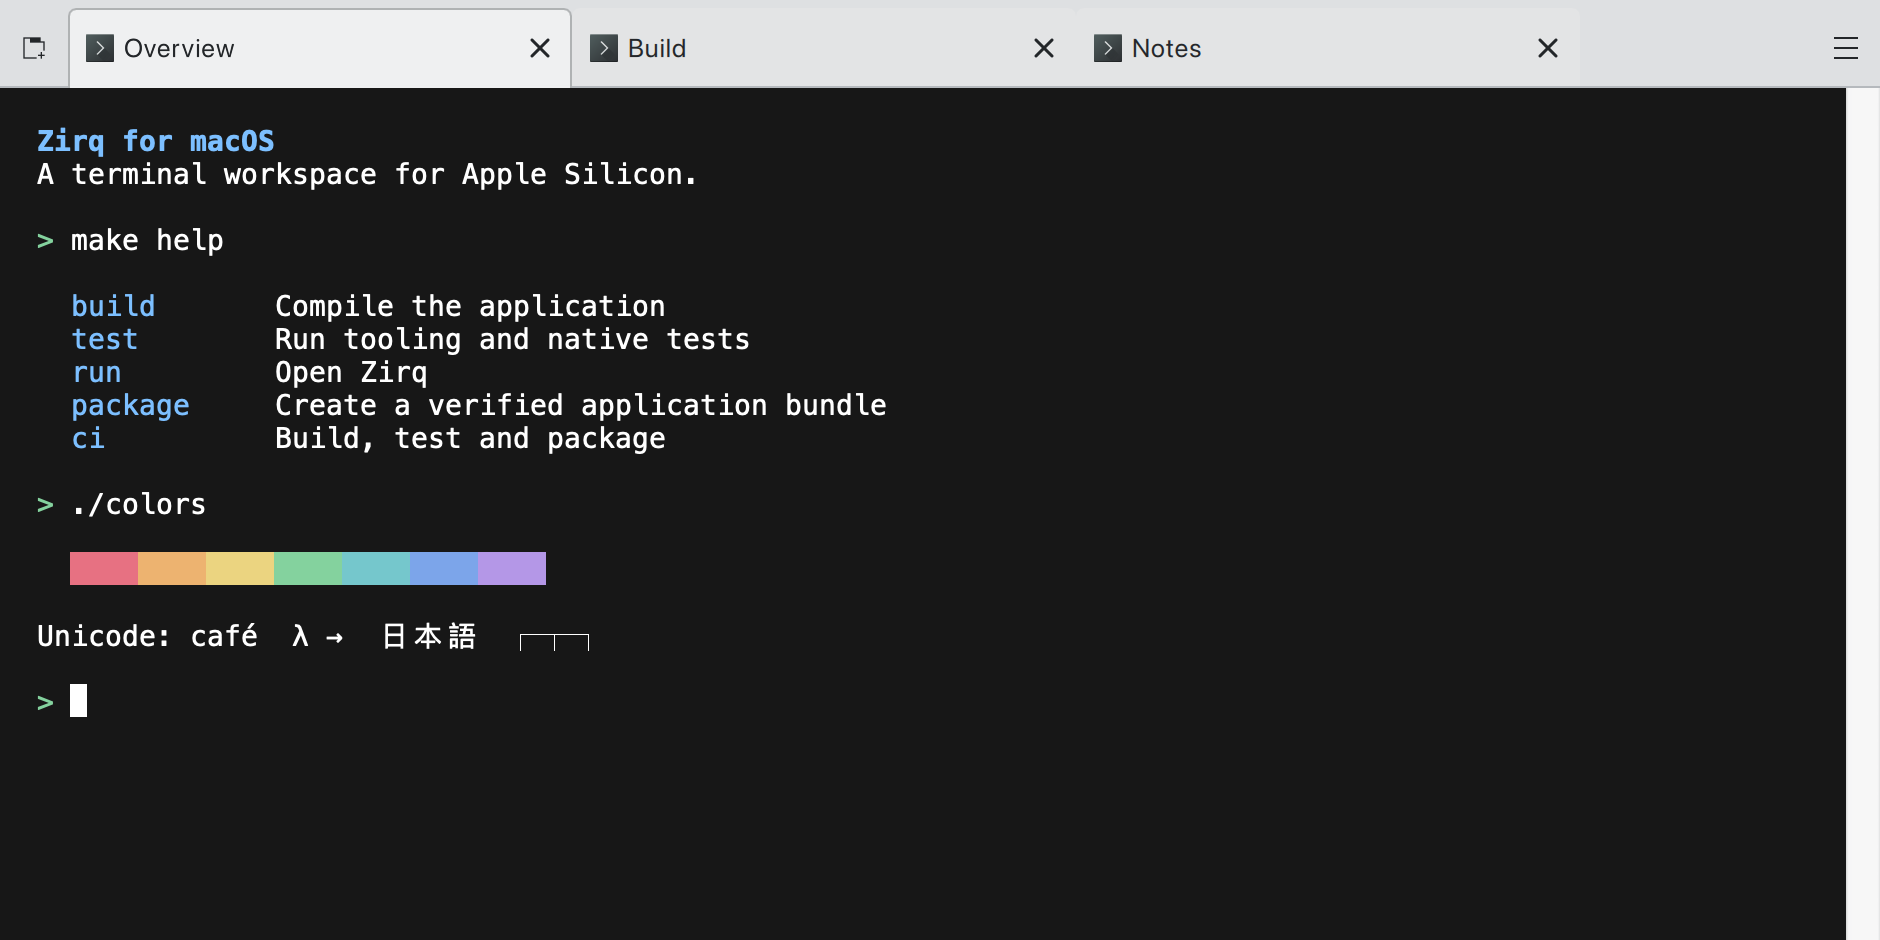
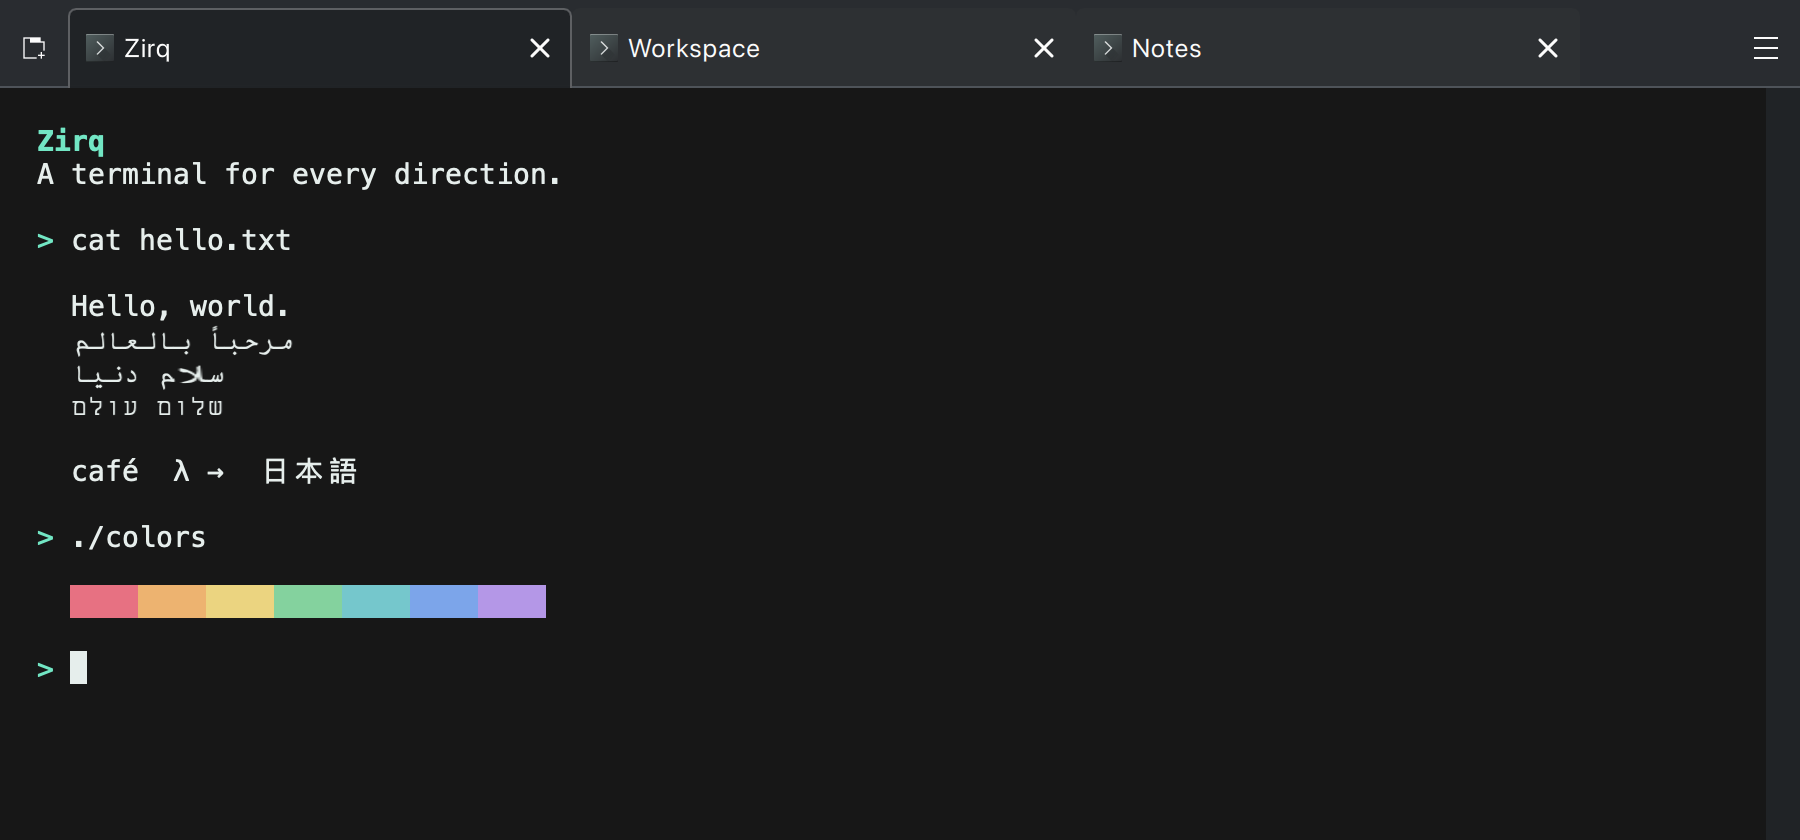
Refocus Zirq documentation and capture a consistently dark screenshot

Changed region(s): [[0.0, 0.0, 1.0, 1.0], [0.0311, 0.2476, 0.4667, 0.4952], [0.0, 0.5262, 0.3111, 0.8048]]

diff --git a/tests/MacInteractionTest.cpp b/tests/MacInteractionTest.cpp
@@ -30,6 +30,7 @@
 #include <QJsonArray>
 #include <QJsonDocument>
 #include <QJsonObject>
+#include <QPalette>
 #include <QProcess>
 #include <QQmlComponent>
 #include <QQmlContext>
@@ -375,19 +376,35 @@ private Q_SLOTS:
     void readmeScreenshot()
     {
         const auto originalScheme = QGuiApplication::styleHints()->colorScheme();
+        const auto originalPalette = QGuiApplication::palette();
         const auto restoreAppearance = qScopeGuard([&] {
             QGuiApplication::styleHints()->setColorScheme(originalScheme);
+            QApplication::setPalette(originalPalette);
         });
         QGuiApplication::styleHints()->setColorScheme(Qt::ColorScheme::Dark);
+        // The desktop Kirigami style uses SystemPalette. A color-scheme hint
+        // alone does not override a light host palette in an isolated capture.
+        QPalette dark{originalPalette};
+        for (auto role : {QPalette::WindowText, QPalette::Text, QPalette::ButtonText, QPalette::ToolTipText})
+            dark.setColor(role, QColor{QStringLiteral("#e6eeec")});
+        dark.setColor(QPalette::Window, QColor{QStringLiteral("#202626")});
+        dark.setColor(QPalette::Base, QColor{QStringLiteral("#171717")});
+        dark.setColor(QPalette::AlternateBase, QColor{QStringLiteral("#242b2b")});
+        dark.setColor(QPalette::Button, QColor{QStringLiteral("#252d2d")});
+        dark.setColor(QPalette::ToolTipBase, QColor{QStringLiteral("#252d2d")});
+        dark.setColor(QPalette::Highlight, QColor{QStringLiteral("#72e6c4")});
+        dark.setColor(QPalette::HighlightedText, QColor{QStringLiteral("#10201b")});
+        dark.setColor(QPalette::Disabled, QPalette::Text, QColor{QStringLiteral("#82918c")});
+        QApplication::setPalette(dark);
         m_settings->setFontPointSize(14);
         m_settings->setColorScheme(QStringLiteral("Breeze"));
         m_settings->setBackgroundOpacity(1);
         m_settings->setBackgroundBlur(false);
         m_settings->setTabBarAtBottom(false);
-        m_window->resize(940, 470);
-        m_session->setCustomTitle(QStringLiteral("Overview"));
+        m_window->resize(900, 420);
+        m_session->setCustomTitle(QStringLiteral("Zirq"));
         auto *model = m_windows->sessions(m_window);
-        for (const auto &title : {QStringLiteral("Build"), QStringLiteral("Notes")}) {
+        for (const auto &title : {QStringLiteral("Workspace"), QStringLiteral("Notes")}) {
             Kwi::LaunchRequest request;
             request.command = QStringList{QStringLiteral("/bin/sleep"), QStringLiteral("60")};
             request.contextDirectory = m_directory.path();
@@ -399,22 +416,24 @@ private Q_SLOTS:
         // No shell profile, desktop pixels or real user/host/path data is included.
         m_session->feed(
             "\033[2J\033[H\r\n"
-            "  \033[1;38;2;124;191;255mZirq for macOS\033[0m\r\n"
-            "  A terminal workspace for Apple Silicon.\r\n\r\n"
-            "  \033[38;2;132;210;158m>\033[0m make help\r\n\r\n"
-            "    \033[38;2;124;191;255mbuild\033[0m       Compile the application\r\n"
-            "    \033[38;2;124;191;255mtest\033[0m        Run tooling and native tests\r\n"
-            "    \033[38;2;124;191;255mrun\033[0m         Open Zirq\r\n"
-            "    \033[38;2;124;191;255mpackage\033[0m     Create a verified application bundle\r\n"
-            "    \033[38;2;124;191;255mci\033[0m          Build, test and package\r\n\r\n"
-            "  \033[38;2;132;210;158m>\033[0m ./colors\r\n\r\n"
+            "  \033[1;38;2;114;230;196mZirq\033[0m\r\n"
+            "  A terminal for every direction.\r\n\r\n"
+            "  \033[38;2;114;230;196m>\033[0m cat hello.txt\r\n\r\n");
+        m_session->feed(QStringLiteral(
+            "    Hello, world.\r\n"
+            "    مرحباً بالعالم\r\n"
+            "    سلام دنیا\r\n"
+            "    שלום עולם\r\n\r\n"
+            "    café  λ →  日本語\r\n\r\n").toUtf8());
+        m_session->feed(
+            "  \033[38;2;114;230;196m>\033[0m ./colors\r\n\r\n"
             "    \033[48;2;231;113;130m    \033[48;2;237;179;112m    \033[48;2;235;212;128m    "
             "\033[48;2;132;210;158m    \033[48;2;117;199;204m    \033[48;2;124;165;234m    "
             "\033[48;2;180;151;231m    \033[0m\r\n\r\n");
-        m_session->feed(QStringLiteral("  Unicode: café  λ →  日本語  ┌─┬─┐\r\n\r\n").toUtf8());
-        m_session->feed("  \033[38;2;132;210;158m>\033[0m ");
-        QTRY_VERIFY(m_session->historyText().contains(QLatin1String("A terminal workspace")));
+        m_session->feed("  \033[38;2;114;230;196m>\033[0m ");
+        QTRY_VERIFY(m_session->historyText().contains(QStringLiteral("مرحباً بالعالم")));
         QTest::qWait(400);
+        QVERIFY(m_window->grabWindow().pixelColor(4, 4).lightness() < 100);
         screenshot(QStringLiteral("readme"));
     }
 

diff --git a/README.md b/README.md
@@ -3,118 +3,54 @@ SPDX-FileCopyrightText: 2026 Eike Hein <hein@kde.org>
 SPDX-FileCopyrightText: 2026 Mohamed Elashri <kwi@elashri.com>
 SPDX-License-Identifier: CC0-1.0
 -->
-# <img src="logo.svg" width="64" alt=""/> Zirq
+# <img src="logo.svg" width="56" alt=""/> Zirq
+
+A fast terminal for macOS, with Arabic, Persian and Hebrew support.
 
 [![CI](https://github.com/MohamedElashri/zirq/actions/workflows/checks.yml/badge.svg?branch=main)](https://github.com/MohamedElashri/zirq/actions/workflows/checks.yml)
-[![Latest release](https://img.shields.io/github/v/release/MohamedElashri/zirq)](https://github.com/MohamedElashri/zirq/releases/latest)
-[![Platform](https://img.shields.io/badge/macOS-Apple%20Silicon-000000?logo=apple&logoColor=white)](https://github.com/MohamedElashri/zirq/releases/latest)
-[![License](https://img.shields.io/badge/license-GPL%20%2F%20LGPL-blue)](LICENSES/)
+[![Release](https://img.shields.io/github/v/release/MohamedElashri/zirq)](https://github.com/MohamedElashri/zirq/releases)
 
-A Metal-accelerated terminal workspace for Apple Silicon, with bidirectional
-Arabic, Persian and Hebrew support. Zirq builds on [KDE Kwi](https://invent.kde.org/utilities/kwi),
-Qt Quick, KDE Frameworks and libghostty-vt, with its own macOS integration and features.
+![Zirq in dark mode with tabbed sessions and multilingual terminal output](assets/readme/screenshot.png)
 
-![Zirq with tabbed sessions, truecolor output and Unicode text](assets/readme/screenshot.png)
-
-- **Tabbed sessions** with searchable scrollback and keyboard selection.
-- **Arabic, Persian and Hebrew** with bidirectional rendering, joining and mixed-script copy and search.
-- **Mac input** with familiar shortcuts and optional Option-as-Alt.
-- **Your workspace** with launch presets, color schemes, fonts and configurable shortcuts.
+- Bidirectional text, Arabic shaping, and logical copy and search.
+- Tabs, searchable scrollback, launch presets, and configurable shortcuts.
+- Metal rendering, custom colors and fonts, and familiar Mac keyboard input.
 
 ## Install
 
-An Apple Silicon Mac is required; see the release notes for the minimum macOS version.
-Install or update the latest stable release:
+Requires **Apple Silicon** and **macOS 14.4 or later**.
 
 ```sh
 curl -fsSL https://raw.githubusercontent.com/MohamedElashri/zirq/main/install.sh | bash
 ```
 
-Run the same command again to update. The installer verifies checksums and
-signatures and installs to `/Applications` or `~/Applications` without sudo.
-Quit Zirq and use another terminal when updating. For a custom destination, replace
-`bash` with `bash -s -- --app-dir "$HOME/Applications"`.
-
-**Homebrew** uses this repository as its tap:
+Run the same command to update, after quitting the app. Prefer Homebrew?
 
 ```sh
 brew tap MohamedElashri/zirq https://github.com/MohamedElashri/zirq.git
 brew install --cask mohamedelashri/zirq/zirq
 ```
 
-Update a Homebrew installation with:
+Or download the app from [Releases](https://github.com/MohamedElashri/zirq/releases).
+See [installation and upgrade notes](Installation.md) for release availability,
+custom locations, and migration from the old app.
+
+### First launch
+
+Builds are ad-hoc signed and not notarized. If macOS blocks a download you have
+verified came from this repository, remove its quarantine attribute:
 
 ```sh
-brew update
-brew upgrade --cask mohamedelashri/zirq/zirq
+xattr -dr com.apple.quarantine /Applications/Zirq.app
 ```
 
-For manual installation, download the app archive from the
-[latest release](https://github.com/MohamedElashri/zirq/releases/latest)
-and move the included app to Applications. The first Zirq release uses
-**Zirq-arm64.zip**; version 0.2.0 still uses **Kwi-arm64.zip**.
-
-Builds are ad-hoc signed and not notarized. If macOS blocks the first launch,
-follow [Apple’s Open Anyway instructions](https://support.apple.com/en-us/102445).
-
-The first Zirq source version is 0.3.0. Until it is published, the installer and
-Homebrew continue to verify the existing 0.2.0 Kwi archive; Homebrew installs it
-as `Zirq.app`. The next release switches to the new Zirq bundle automatically.
-
-## Upgrading from Kwi Mac
-
-Zirq uses the same preferences, presets, color schemes and shortcut collections,
-so your existing profile carries over. The installer recognizes `Kwi.app` and
-replaces it with `Zirq.app`, with rollback if replacement fails. Homebrew tracks
-the `kwi-mac` → `zirq` cask rename through this tap.
-
-Quit Kwi before upgrading. Preferences carry over; running tabs, processes and
-terminal scrollback do not resume after quitting. Shell history remains managed
-by your shell. Permissions associated with the old macOS app identity are
-outside this profile migration.
-
-The project now lives at `MohamedElashri/zirq`. Existing GitHub repository and
-release links redirect to the new location. Update a local checkout with:
-
-```sh
-git remote set-url origin https://github.com/MohamedElashri/zirq.git
-```
-
-For an existing Homebrew installation, add the new tap before upgrading. The
-new tap includes the old cask token in its rename map:
-
-```sh
-brew tap MohamedElashri/zirq https://github.com/MohamedElashri/zirq.git
-brew update
-brew upgrade --cask mohamedelashri/zirq/zirq
-```
-
-After the upgrade succeeds, the old tap can be removed with
-`brew untap MohamedElashri/kwi-mac`.
-
-Re-add Zirq to the Dock and update any custom launchers or shell aliases that
-refer to `Kwi.app` or its `kwi` executable.
+Use `"$HOME/Applications/Zirq.app"` instead if installed in your home directory.
 
 ## Use
 
-**⌘T** opens a tab, **⌘F** searches output, and **⌘,** opens settings.
-Enable **Use Option as Alt** under **Behavior** when needed.
+**⌘T** new tab · **⌘F** search · **⌘,** settings.
+Fonts, colors, Option-as-Alt, and bidirectional rendering are configurable in settings.
 
-Bidirectional rendering is enabled by default. For applications that already
-arrange RTL text themselves, turn it off under **Terminal → Text direction**.
-
-## Development
-
-Zirq has its own versions, releases and support, maintained by
-[Mohamed Elashri](https://github.com/MohamedElashri). We regularly review KDE Kwi
-updates and integrate them through tested pull requests.
-
-See [Development.md](Development.md) for building, testing, releases and maintenance.
-Local development and CI use the same [Makefile](Makefile).
-
-## License
-
-The application is GPL-2.0-only OR GPL-3.0-only OR LicenseRef-KDE-Accepted-GPL;
-the terminal libraries are LGPL-2.1-only OR LGPL-3.0-only OR
-LicenseRef-KDE-Accepted-LGPL. Konsole palettes are GPL-2.0-or-later. See
-[license texts](LICENSES/) and [palette attribution](libs/kwi-terminal/data/color-schemes/NOTICE).
+Built on [KDE Kwi](https://invent.kde.org/utilities/kwi), Qt Quick, KDE Frameworks,
+and libghostty-vt, with independent development and releases.
+[Development](Development.md) · [Issues](https://github.com/MohamedElashri/zirq/issues) · [Licenses](LICENSES/)

diff --git a/Installation.md b/Installation.md
@@ -1,0 +1,90 @@
+<!--
+SPDX-FileCopyrightText: 2026 Mohamed Elashri
+SPDX-License-Identifier: CC0-1.0
+-->
+# Installation and upgrades
+
+Zirq requires an Apple Silicon Mac running macOS 14.4 or later.
+
+## Release availability
+
+Version 0.3.0 is the first Zirq-branded release. Until it is published, the stable
+installer and Homebrew cask still download the published 0.2.0 Kwi bundle. That
+older binary can still identify itself as Kwi even when installed as `Zirq.app`.
+New Zirq releases use `Zirq-arm64.zip`, executable `zirq`, and bundle identity
+`com.elashri.zirq`.
+
+## Installer
+
+```sh
+curl -fsSL https://raw.githubusercontent.com/MohamedElashri/zirq/main/install.sh | bash
+```
+
+The installer verifies checksums and signatures, and chooses `/Applications` or
+`~/Applications` without sudo. Quit the app and run it from another terminal to
+update. For a custom destination:
+
+```sh
+curl -fsSL https://raw.githubusercontent.com/MohamedElashri/zirq/main/install.sh | bash -s -- --app-dir "$HOME/Applications"
+```
+
+## Homebrew
+
+```sh
+brew tap MohamedElashri/zirq https://github.com/MohamedElashri/zirq.git
+brew install --cask mohamedelashri/zirq/zirq
+```
+
+To update:
+
+```sh
+brew update
+brew upgrade --cask mohamedelashri/zirq/zirq
+```
+
+## Manual installation and first launch
+
+Download the app archive from [Releases](https://github.com/MohamedElashri/zirq/releases),
+verify it with the included `SHA256SUMS`, extract it, and move `Zirq.app` to
+Applications. Keep the app bundle intact.
+
+Builds are ad-hoc signed and not notarized. If macOS blocks a verified download
+from this repository, remove quarantine from this app only:
+
+```sh
+xattr -dr com.apple.quarantine /Applications/Zirq.app
+open /Applications/Zirq.app
+```
+
+For a home-directory installation, use `"$HOME/Applications/Zirq.app"` in both
+commands. Removing quarantine does not repair a modified or corrupt bundle;
+download it again if checksum or signature verification fails.
+
+## Moving from Kwi
+
+Quit Kwi before upgrading. The installer replaces `Kwi.app` with `Zirq.app` and
+restores the old app if replacement fails. Existing preferences, presets and
+default preset, palettes, shortcuts, and saved window state carry over. The
+existing profile paths remain in use for compatibility.
+
+Open tabs, running processes, and terminal scrollback do not resume. Your shell
+manages its own history. Re-add Zirq to the Dock and update custom launchers or
+aliases pointing to the old app or executable. macOS permission grants belong
+to the application identity and may need to be granted to Zirq.
+
+If a tab still says `kwi-mac`, check its working directory: tab titles can show
+the current folder. The repository rename does not rename an existing checkout.
+The app menu and About window identify the running application; a 0.2.0 binary
+will retain its original branding until it is replaced by 0.3.0 or later.
+
+For an existing Homebrew installation, add the new tap and use the update
+commands above. The tap maps the old `kwi-mac` cask to `zirq`. After a successful
+upgrade, the old tap can be removed:
+
+```sh
+brew untap MohamedElashri/kwi-mac
+```
+
+Old GitHub repository and release links redirect to
+[`MohamedElashri/zirq`](https://github.com/MohamedElashri/zirq).
+To update a source checkout's remote, see [Development](Development.md).

diff --git a/Development.md b/Development.md
@@ -115,6 +115,27 @@ files retain their upstream names. The existing `kwirc`, `kwiterminalrc`, `kwist
 shortcut collections and `kwi/` data directories remain the profile locations.
 This preserves user data and keeps upstream synchronization manageable.
 
+The name audit covers tracked filenames as well as file contents. Remaining
+references have specific purposes:
+
+| Location | Why the old name remains |
+| --- | --- |
+| Preferences, presets, shortcut IDs, drag MIME type, and `KwiLaunchPreset` | Existing data and integrations must keep working |
+| `Kwi` C++ namespace, `org.kde.kwi` QML modules, library targets, and translation catalogs | Upstream source/API identities; these do not set the app's displayed name |
+| `craft/kwi/`, dependency receipts, resource paths, and test fixture markers | Build and test plumbing, including verification against the predecessor |
+| Old archive names, installer detection, locks, cask rename, and owned-output markers | Safe upgrades and recovery from earlier installations/builds |
+| KDE Kwi acknowledgments, copyright and license records | Upstream attribution |
+
+New user-facing product names, app metadata, icons, support URLs, terminal
+identification, and release artifacts use Zirq. Do not mechanically rename the
+compatibility identifiers in the table. When changing one, provide a migration
+or fallback and test the real previous-release upgrade.
+
+Renaming the GitHub repository does not rename an existing local checkout.
+Update its remote with `git remote set-url origin https://github.com/MohamedElashri/zirq.git`.
+The directory name can still appear as a terminal tab title. A built Craft prefix
+contains absolute paths, so use a fresh prefix after moving the checkout.
+
 Diagnostics use `ZIRQ_TRACE` and `ZIRQ_TRACE_MARKER`; the old `KWI_TRACE`
 variables remain accepted for existing developer scripts. New bundles record
 provenance in `zirq-bundle.json`, including the icon and metadata input hashes.
